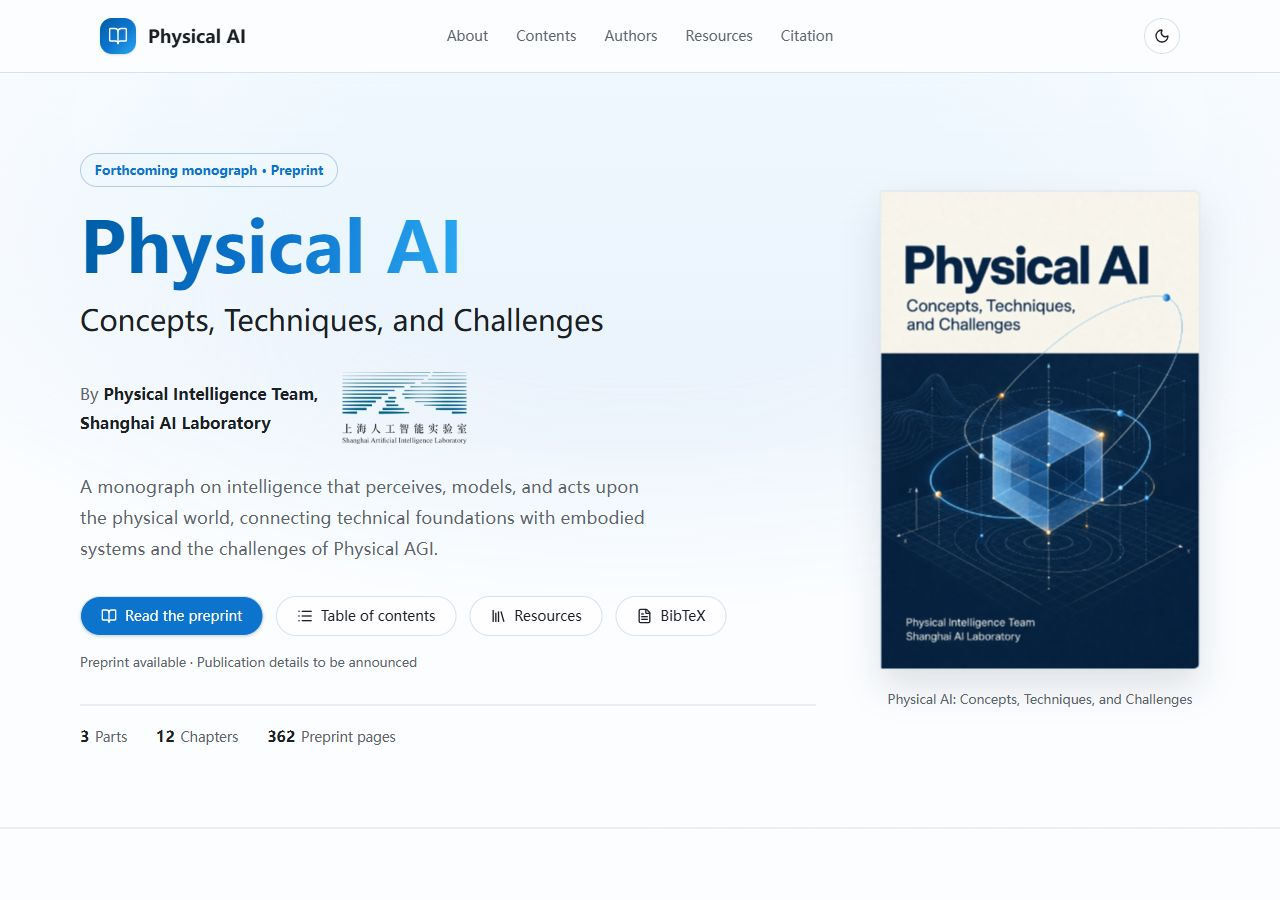
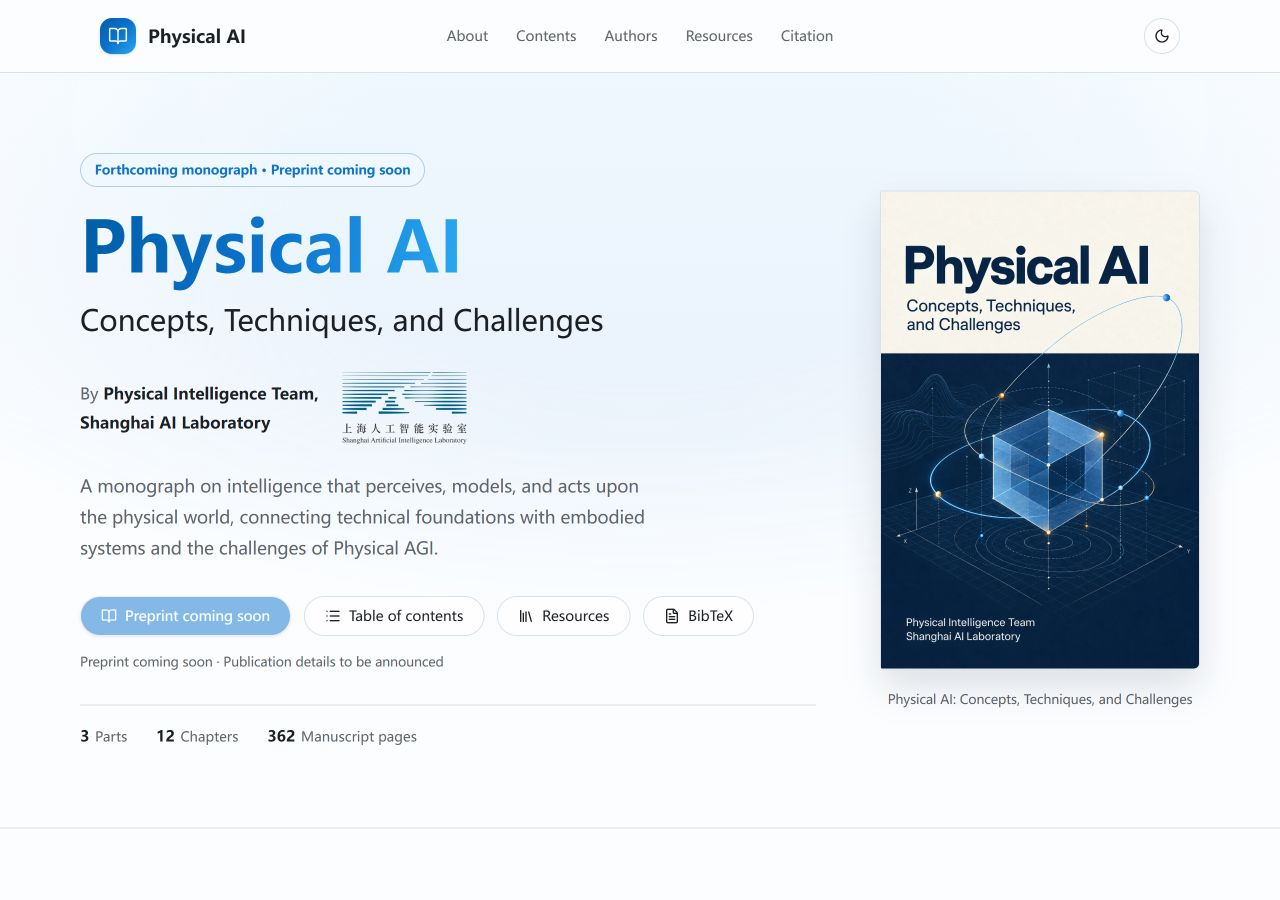
fix: withdraw unreleased manuscript

diff --git a/src/components/research-page/project-sections.tsx b/src/components/research-page/project-sections.tsx
@@ -1,4 +1,4 @@
-import { ArrowDownToLine, ArrowUpRight, BookOpen, Code2, FileText, MessageSquare, Presentation } from "lucide-react";
+import { ArrowUpRight, BookOpen, Code2, FileText, MessageSquare, Presentation } from "lucide-react";
 
 import { ProjectImage } from "@/components/media/project-image";
 import { CopyCitation } from "@/components/research-page/copy-citation";
@@ -23,7 +23,7 @@ export function AboutSection() {
       <div className="definition-note mt-8">
         <p className="section-eyebrow">The organizing idea</p>
         <p className="organizing-statement mt-3 text-foreground">Perception, prediction, decision-making, action, and adaptation form a continuous loop through the physical world.</p>
-        <a className="mt-3 inline-flex items-center gap-1 text-sm font-medium text-primary" href={`${assetPath(projectInfo.pdf)}#page=14`} target="_blank" rel="noopener noreferrer">An organizing framework introduced in Chapter 1. <ArrowUpRight aria-hidden="true" className="size-4" /></a>
+        {projectInfo.pdf ? <a className="mt-3 inline-flex items-center gap-1 text-sm font-medium text-primary" href={`${assetPath(projectInfo.pdf)}#page=14`} target="_blank" rel="noopener noreferrer">An organizing framework introduced in Chapter 1. <ArrowUpRight aria-hidden="true" className="size-4" /></a> : <p className="mt-3 text-sm font-medium text-muted-foreground">An organizing framework introduced in Chapter 1.</p>}
       </div>
       <div className="mt-10 grid gap-4 sm:grid-cols-2 lg:grid-cols-4">
         {coreElements.map((element) => <article className="step-card" key={element.number}><span>{element.number}</span><h3>{element.title}</h3><p>{element.body}</p></article>)}
@@ -78,7 +78,7 @@ export function ContentsSection() {
         </div>
       </div>
       <p className="mt-5 text-sm font-medium">References <span className="ml-2 text-muted-foreground">p. 313</span></p>
-      <p className="results-note">Expand a chapter to view its sections. Page numbers refer to the current preprint.</p>
+      <p className="results-note">Expand a chapter to view its sections. Page numbers refer to the draft manuscript.</p>
     </SectionShell>
   );
 }
@@ -98,7 +98,7 @@ const resourceIcons = { pdf: BookOpen, code: Code2, slides: Presentation, errata
 
 export function ResourcesSection() {
   return (
-    <SectionShell className="bg-muted/35" eyebrow="Read & explore" id="resources" title="The book and companion resources" headingClassName="max-w-none" leadClassName="desktop-single-line-lead" lead="Start with the preprint. This page will also provide a home for companion materials as they become available.">
+    <SectionShell className="bg-muted/35" eyebrow="Read & explore" id="resources" title="The book and companion resources" headingClassName="max-w-none" leadClassName="desktop-single-line-lead" lead="The preprint is coming soon. Companion materials will be shared here as they become available.">
       <div className="grid gap-5 md:grid-cols-2">
         {resources.map((resource) => {
           const Icon = resourceIcons[resource.icon];
@@ -114,7 +114,7 @@ export function ResourcesSection() {
         })}
       </div>
       <div className="publication-details mt-8">
-        <div><p className="section-eyebrow">Publication</p><h3 className="mt-3 text-xl font-semibold">Forthcoming</h3><p className="mt-2 text-sm leading-6 text-muted-foreground">The manuscript is available as a preprint. Final publication information will appear here.</p></div>
+        <div><p className="section-eyebrow">Publication</p><h3 className="mt-3 text-xl font-semibold">Forthcoming</h3><p className="mt-2 text-sm leading-6 text-muted-foreground">The manuscript is being prepared for public release. Publication information will appear here.</p></div>
         <dl className="publication-facts">
           <div><dt>Publisher</dt><dd>{projectInfo.publisher ?? "To be announced"}</dd></div>
           <div><dt>Publication date</dt><dd>{projectInfo.publicationDate ?? "To be announced"}</dd></div>
@@ -127,15 +127,15 @@ export function ResourcesSection() {
 
 export function BibtexSection() {
   return (
-    <SectionShell eyebrow="Citation" id="bibtex" title="Cite the monograph" lead="For the current manuscript, please use the preprint citation below.">
+    <SectionShell eyebrow="Citation" id="bibtex" title="Cite the monograph" lead="This is a provisional citation for the forthcoming monograph.">
       <p className="citation-prose mb-7 text-base leading-8 text-muted-foreground">{citationText}</p>
       <div className="mb-4 flex flex-wrap items-center justify-between gap-4"><h3 className="flex items-center gap-2 font-semibold"><FileText aria-hidden="true" className="size-4 text-primary" />BibTeX</h3><CopyCitation text={bibtex} /></div>
       <pre className="overflow-x-auto rounded-lg border border-border bg-card p-5 text-sm leading-7 text-foreground"><code>{bibtex}</code></pre>
-      <p className="results-note">The citation will be updated when final publication details are available.</p>
+      <p className="results-note">The citation will be updated when the manuscript and final publication details are available.</p>
       <div className="mt-12 border-t border-border pt-10">
         <h3 className="text-2xl font-semibold">Explore intelligence in the physical world.</h3>
-        <p className="mt-3 text-muted-foreground">Read the preprint or begin with a chapter in the table of contents.</p>
-        <div className="mt-6 flex flex-wrap gap-3"><a className={buttonClasses()} href={assetPath(projectInfo.pdf)} target="_blank" rel="noopener noreferrer"><ArrowDownToLine aria-hidden="true" />Read the preprint</a><a className={buttonClasses({ variant: "outline" })} href="#contents">Browse the contents</a></div>
+        <p className="mt-3 text-muted-foreground">Explore the table of contents while the preprint is being prepared for release.</p>
+        <div className="mt-6 flex flex-wrap gap-3">{projectInfo.pdf ? <a className={buttonClasses()} href={assetPath(projectInfo.pdf)} target="_blank" rel="noopener noreferrer"><BookOpen aria-hidden="true" />Read the preprint</a> : <button className={buttonClasses()} disabled type="button"><BookOpen aria-hidden="true" />Preprint coming soon</button>}<a className={buttonClasses({ variant: "outline" })} href="#contents">Browse the contents</a></div>
       </div>
     </SectionShell>
   );

diff --git a/src/data/project-page.ts b/src/data/project-page.ts
@@ -5,12 +5,11 @@ export const projectInfo = {
   name: "Physical AI",
   fullTitle: "Physical AI: Concepts, Techniques, and Challenges",
   subtitle: ["Concepts, Techniques, and Challenges"],
-  status: "Forthcoming monograph · Preprint",
+  status: "Forthcoming monograph · Preprint coming soon",
   description: "A monograph on intelligence that perceives, models, and acts upon the physical world, connecting technical foundations with embodied systems and the challenges of Physical AGI.",
   team: "Physical Intelligence Team, Shanghai AI Laboratory",
   year: "2026",
-  pdf: "/paper/Physical_AI___Monograph.pdf",
-  pdfSize: "66.1 MB",
+  pdf: null as string | null,
   publisher: null as string | null,
   publicationDate: null as string | null,
   purchaseUrl: null as string | null,
@@ -29,7 +28,7 @@ export const teamLogos: (ImageAsset & { id: string })[] = [
   { id: "shanghai-ai-laboratory", src: "/images/ailab-logo.png", width: 672, height: 390, alt: "Shanghai Artificial Intelligence Laboratory" },
 ];
 export const heroActions = [
-  { label: "Read the preprint", href: projectInfo.pdf, icon: "pdf" },
+  { label: projectInfo.pdf ? "Read the preprint" : "Preprint coming soon", href: projectInfo.pdf, icon: "pdf" },
   { label: "Table of contents", href: "#contents", icon: "contents" },
   { label: "Resources", href: "#resources", icon: "resources" },
   { label: "BibTeX", href: "#bibtex", icon: "citation" },
@@ -62,15 +61,15 @@ export const partDescriptions: Record<string, string> = {
   iii: "General physical intelligence, evaluation and governance, and long-term development strategies.",
 };
 export const resources: { id: string; title: string; description: string; label: string; href: string | null; icon: "pdf" | "code" | "slides" | "errata" }[] = [
-  { id: "preprint", title: "Preprint manuscript", description: "Read the current 362-page manuscript, including all 12 chapters and the reference list.", label: "Open PDF · 66.1 MB", href: projectInfo.pdf, icon: "pdf" },
+  { id: "preprint", title: "Preprint manuscript", description: "The preprint will be shared here when it is ready for public release.", label: projectInfo.pdf ? "Open preprint" : "Coming soon", href: projectInfo.pdf, icon: "pdf" },
   { id: "code", title: "Code & examples", description: "A space for companion implementations and examples. Links will be added when available.", label: "Coming soon", href: null, icon: "code" },
   { id: "slides", title: "Lecture slides", description: "A space for chapter slides and teaching materials to accompany the monograph.", label: "Coming soon", href: null, icon: "slides" },
   { id: "errata", title: "Errata & feedback", description: "Corrections and a reader feedback channel will be added here when available.", label: "Coming soon", href: null, icon: "errata" },
 ];
-export const citationText = `${projectInfo.team}. ${projectInfo.fullTitle}. Preprint, 2026.`;
+export const citationText = `${projectInfo.team}. ${projectInfo.fullTitle}. Forthcoming, 2026.`;
 export const bibtex = `@misc{physicalai2026monograph,
   title  = {Physical AI: Concepts, Techniques, and Challenges},
   author = {{Physical Intelligence Team, Shanghai AI Laboratory}},
   year   = {2026},
-  note   = {Preprint}
+  note   = {Forthcoming; manuscript not yet publicly released}
 }`;

diff --git a/src/components/research-page/hero-section.tsx b/src/components/research-page/hero-section.tsx
@@ -32,7 +32,7 @@ export function HeroSection() {
           </div>
           <p className="book-hero-description">{projectInfo.description}</p>
           <div className="book-hero-actions">
-            {heroActions.map((action, index) => (
+            {heroActions.map((action, index) => action.href ? (
               <a
                 className={buttonClasses({ size: "md", variant: index === 0 ? "default" : "outline" })}
                 href={assetPath(action.href)}
@@ -42,13 +42,17 @@ export function HeroSection() {
               >
                 {icons[action.icon]}{action.label}
               </a>
+            ) : (
+              <button className={buttonClasses({ size: "md", variant: index === 0 ? "default" : "outline" })} disabled key={action.label} type="button">
+                {icons[action.icon]}{action.label}
+              </button>
             ))}
           </div>
-          <p className="book-edition-note">Preprint available · Publication details to be announced</p>
+          <p className="book-edition-note">{projectInfo.pdf ? "Preprint available" : "Preprint coming soon"} · Publication details to be announced</p>
           <dl aria-label="About this edition" className="book-facts">
             <div><dt>Parts</dt><dd>3</dd></div>
             <div><dt>Chapters</dt><dd>12</dd></div>
-            <div><dt>Preprint pages</dt><dd>362</dd></div>
+            <div><dt>Manuscript pages</dt><dd>362</dd></div>
           </dl>
         </div>
         <figure className="book-cover-figure">

diff --git a/scripts/extract-manuscript.py b/scripts/extract-manuscript.py
@@ -6,7 +6,7 @@ import pypdfium2 as pdfium
 from pypdf import PdfReader
 
 ROOT = Path(__file__).resolve().parents[1]
-SOURCE = ROOT / "public/paper/Physical_AI___Monograph.pdf"
+SOURCE = ROOT / "reference/private-manuscript/Physical_AI___Monograph.pdf"
 reader = PdfReader(SOURCE)
 outline = reader.outline
 parts = []

diff --git a/README.md b/README.md
@@ -2,13 +2,13 @@
 
 The companion website for the forthcoming monograph by the **Physical Intelligence Team, Shanghai AI Laboratory**.
 
-[Website](https://internrobotics.github.io/PhysicalAI/) · [Preprint PDF](public/paper/Physical_AI___Monograph.pdf)
+[Website](https://internrobotics.github.io/PhysicalAI/)
 
 ## About the book
 
 The monograph develops a unified view of Physical AI: artificial systems that perceive, model, and act upon the physical world through continuous feedback under real-world constraints. It connects foundations in physics, control, cognition, learning, and reasoning with perception, data, world models, embodied foundation models, physical agents, and hardware–software systems.
 
-The current preprint contains **12 chapters in three parts**:
+The forthcoming monograph contains **12 chapters in three parts**:
 
 | Part | Chapters | Scope |
 | --- | --- | --- |
@@ -16,7 +16,7 @@ The current preprint contains **12 chapters in three parts**:
 | II. Methodology | 3–9 | Perception, data, world models, manipulation, motor control, agents, and systems |
 | III. Future Outlook | 10–12 | General physical intelligence, evaluation, safety, governance, and development strategies |
 
-The website includes the book introduction, an expandable table of contents, author information, companion resources, and a preprint citation. An original concept cover is included. Publication details and additional resources will be added when available.
+The website includes the book introduction, an expandable table of contents, author information, companion resources, and a provisional citation. An original concept cover is included. The manuscript is not yet publicly released; its reading link is disabled. Publication details and additional resources will be added when available.
 
 ## Development
 
@@ -42,12 +42,14 @@ The static export is generated in `out/`. The GitHub Pages workflow is in `.gith
 | --- | --- |
 | Book information, cover configuration, resource links, and citation | `src/data/project-page.ts` |
 | Parts, chapters, sections, and page numbers | `src/data/contents.json` |
-| Preprint manuscript | `public/paper/Physical_AI___Monograph.pdf` |
+| Unreleased manuscript (local only, excluded from Git and deployment) | `reference/private-manuscript/` |
 | Cover artwork and book figures | `public/images/monograph/` |
 | Page sections and layout | `src/components/research-page/` |
 | Theme and responsive styles | `src/app/globals.css` |
 
 The current concept cover is in `public/images/monograph/cover-v2.png`. To replace it with final artwork, place the new image in the same directory and update `bookCover.src`, its dimensions, and alternative text in `src/data/project-page.ts`. The existing hover interaction and mobile placement apply to the replacement automatically.
+
+The manuscript URL is set to `projectInfo.pdf: null`. Set it to a public URL only when the manuscript is ready for release. Keep unpublished PDFs outside `public/`; `reference/` is ignored by Git and is not part of the site export. The manuscript extraction script reads the local copy under `reference/private-manuscript/`.
 
 Unavailable resource links use `href: null`. Add their URLs and labels when the materials are ready. Publisher, publication date, and purchase link are configured in `projectInfo`. The table of contents expands within the page and does not link to PDF chapters.
 
@@ -58,7 +60,7 @@ Unavailable resource links use `href: null`. Add their URLs and labels when the 
   title  = {Physical AI: Concepts, Techniques, and Challenges},
   author = {{Physical Intelligence Team, Shanghai AI Laboratory}},
   year   = {2026},
-  note   = {Preprint}
+  note   = {Forthcoming; manuscript not yet publicly released}
 }
 ```
 
